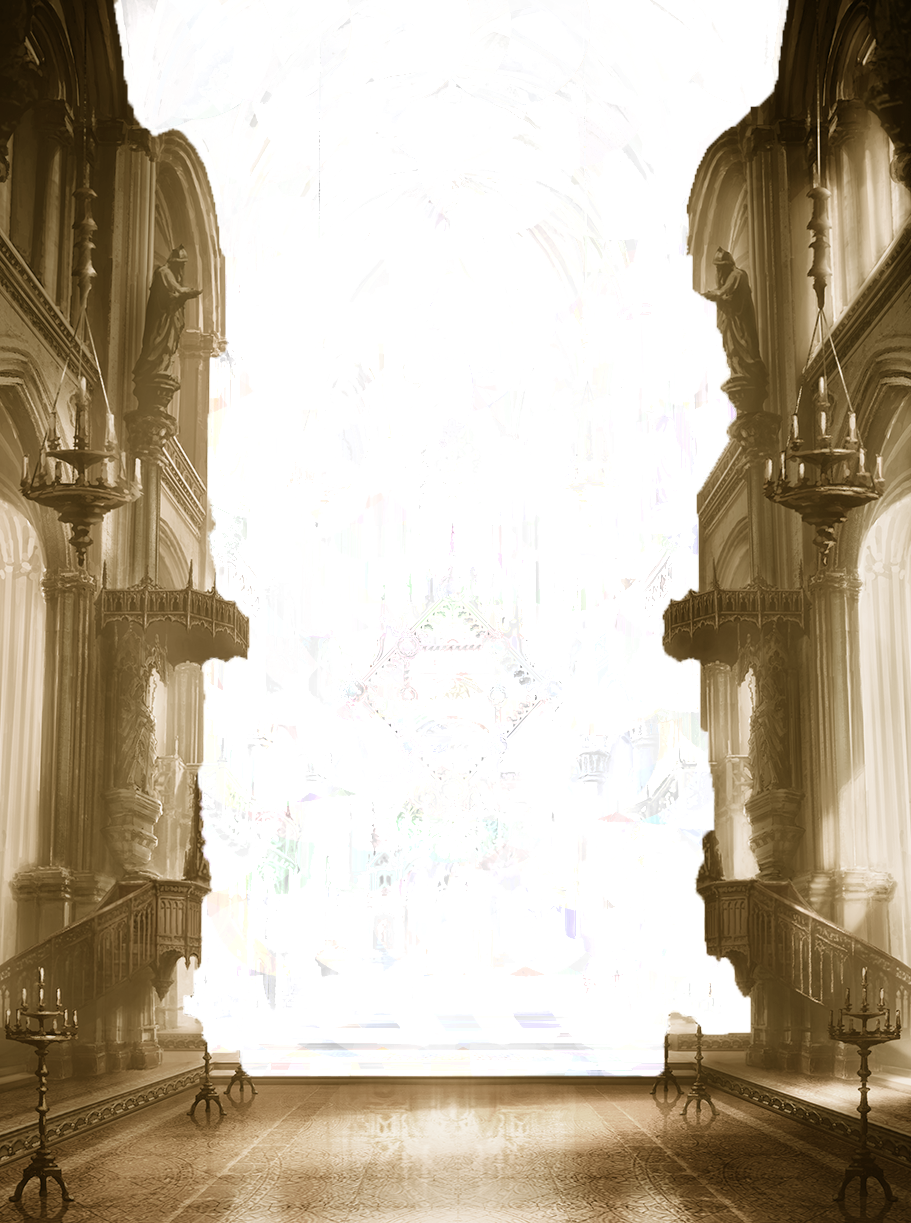
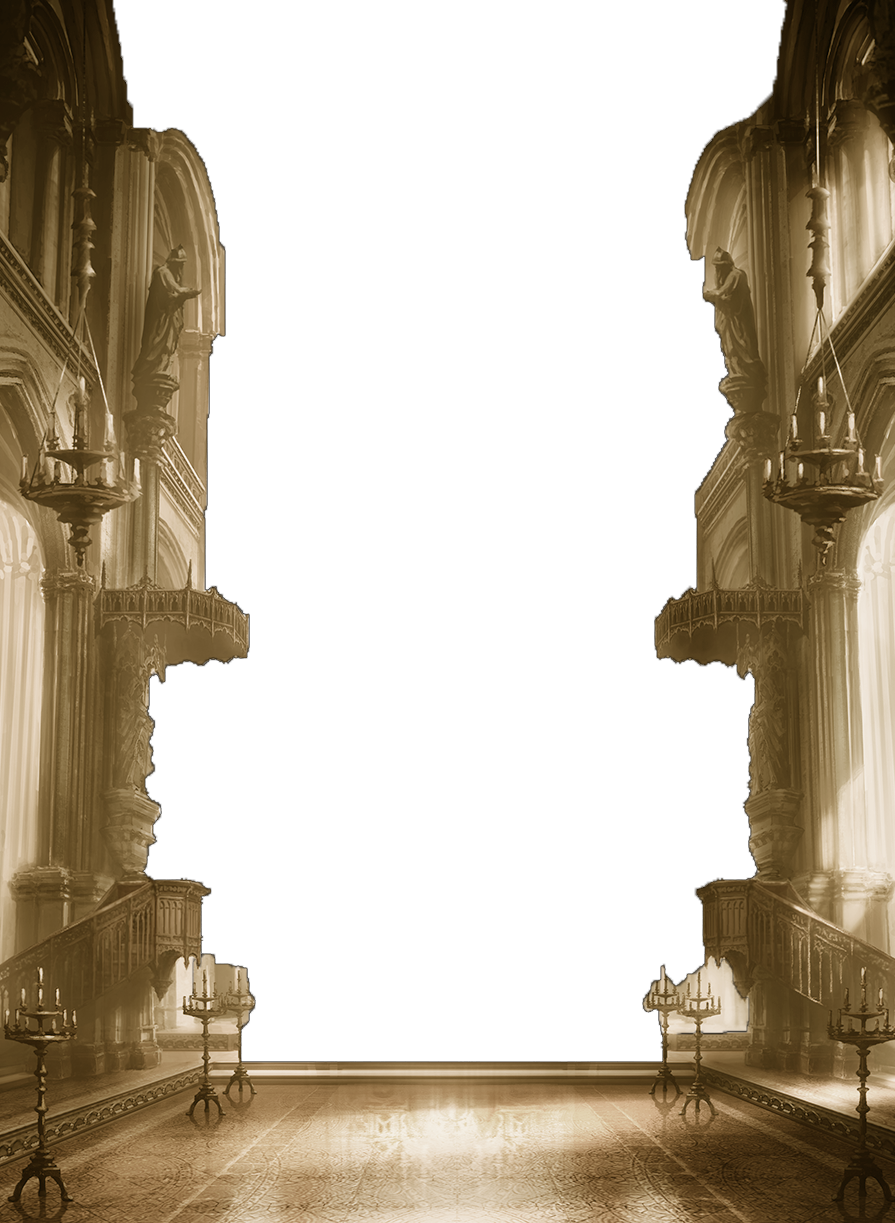
add transition

diff --git a/public/index.html b/public/index.html
@@ -14,30 +14,28 @@
 </head>
 
 <body class="overflow-y-hidden">
-    <div style="background-image: url('../public/images/silluette.jpg');"></div>
-    <section id="boarding" class="bg-[url('../images/interior-sephia-cropped-transparent.png')] bg-cover bg-center fixed inset-0 flex justify-center items-center pt-3 pb-32 bg-slate-100 z-10">
-        <div class="z-20 bg-[url('../images/interior-sephia-cropped-transparent.png')] bg-cover bg-center "></div>
-        <div class="flex items-center justify-center h-screen w-screen max-w-screen-lg">
-            <div class="container">
-                <div class="border rounded-lg shadow-lg p-10 md:px-9 text-center bg-white bg-opacity-50">
-                    <h2 class="text-sm font-semibold font-custom1 text-lime-900 mb-5 lg:text-lg ">WEDDING</h2>
-                    <h2 class="font-custom2 text-lime-900 mb-10 text-3xl md:text-5xl ">Tiger & Milly</h2>
-                    <div class="flex flex-wrap p-5 justify-center">
-                        <button id="show"
-                        class="text-white bg-gradient-to-r from-gold-300 to-moss-300 py-2 px-6 md:py-3 md:px-8 rounded-md transition duration-500 ease-in-out hover:-translate-y-3"><span class="text-xs md:text-sm">VIEW INVITATION</span></button>
+        <section id="boarding" class="bg-[url('../images/interior-sephia-cropped-v2.png'),url('../images/hogwarts.jpg')] bg-cover bg-center fixed inset-0 flex justify-center items-center pt-3 pb-32 bg-slate-100 z-10">
+            <div class="flex items-center justify-center h-screen w-screen max-w-screen-lg">
+                <div class="container">
+                    <div class="border rounded-lg shadow-lg p-10 md:px-9 text-center bg-white bg-opacity-50 enter_2">
+                        <h2 class="text-sm font-semibold font-custom1 text-lime-900 mb-5 lg:text-lg ">WEDDING</h2>
+                        <h2 class="font-custom2 text-lime-900 mb-10 text-3xl md:text-5xl ">Tiger & Milly</h2>
+                        <div class="flex flex-wrap p-5 justify-center">
+                            <button id="show"
+                            class="text-white bg-gradient-to-r from-gold-300 to-moss-300 py-2 px-6 md:py-3 md:px-8 rounded-md transition duration-500 ease-in-out hover:-translate-y-3"><span class="text-xs md:text-sm">VIEW INVITATION</span></button>
+                        </div>
+                        <!-- <iframe src="https://lottie.host/embed/946fe320-e4ab-47ad-9b24-0ccb129e2242/Cito4u3efM.json"></iframe> -->
                     </div>
-                    <!-- <iframe src="https://lottie.host/embed/946fe320-e4ab-47ad-9b24-0ccb129e2242/Cito4u3efM.json"></iframe> -->
                 </div>
-            </div>
-        </div>
-        
     </section>
+    </div>
+    
 
     <section id="title" class=" bg-slate-100">
         <div class="flex items-center justify-center h-screen">
             <div class="container">
                 <div class="w-full px-4">
-                    <div class="max-w-xl mx-auto my-auto text-center mb-16 text-lime-900">
+                    <div id="text-title" class="max-w-xl mx-auto my-auto text-center mb-16 text-lime-900 hidden">
                         <h2 class="font-custom1 font-semibold mb-5 ">PERNIKAHAN</h2>
                         <h2 class="font-custom2 text-4xl mb-5 lg:text-7xl">Tiger</h2>
                         <h2 class=" mb-5"><span class="font-saudagar text-3xl">&</span></h2>
@@ -94,9 +92,12 @@
     </section>
     <script>
         const body = document.querySelector('body')
-      document.getElementById('show').addEventListener('click',function(){
-        document.getElementById('boarding').classList.toggle('hidden')
-        body.classList.toggle('overflow-y-hidden')
+        const text_title = document.querySelector('#text-title')
+        document.getElementById('show').addEventListener('click',function(){
+            document.getElementById('boarding').classList.toggle('hidden')
+            text_title.classList.toggle('hidden')
+            text_title.classList.toggle('enter_5')
+            body.classList.toggle('overflow-y-hidden')
       })
     </script>
 </body>

diff --git a/public/css/style.css b/public/css/style.css
@@ -628,10 +628,6 @@ video {
   margin-bottom: 4rem;
 }
 
-.mb-4 {
-  margin-bottom: 1rem;
-}
-
 .mb-5 {
   margin-bottom: 1.25rem;
 }
@@ -704,10 +700,6 @@ video {
   overflow-y: hidden;
 }
 
-.rounded {
-  border-radius: 0.25rem;
-}
-
 .rounded-3xl {
   border-radius: 1.5rem;
 }
@@ -728,11 +720,6 @@ video {
   border-width: 1px;
 }
 
-.bg-blue-500 {
-  --tw-bg-opacity: 1;
-  background-color: rgb(59 130 246 / var(--tw-bg-opacity));
-}
-
 .bg-slate-100 {
   --tw-bg-opacity: 1;
   background-color: rgb(241 245 249 / var(--tw-bg-opacity));
@@ -748,34 +735,16 @@ video {
   background-color: rgb(255 255 255 / var(--tw-bg-opacity));
 }
 
-.bg-yellow-600 {
-  --tw-bg-opacity: 1;
-  background-color: rgb(202 138 4 / var(--tw-bg-opacity));
-}
-
-.bg-yellow-700 {
-  --tw-bg-opacity: 1;
-  background-color: rgb(161 98 7 / var(--tw-bg-opacity));
-}
-
 .bg-opacity-50 {
   --tw-bg-opacity: 0.5;
 }
 
-.bg-\[url\(\'\.\/images\/interior-sephia-cropped-transparent\.png\'\)\] {
-  background-image: url('./images/interior-sephia-cropped-transparent.png');
+.bg-\[url\(\'\.\.\/images\/interior-sephia-cropped-v2\.png\'\)\2c url\(\'\.\.\/images\/hogwarts\.jpg\'\)\] {
+  background-image: url('../images/interior-sephia-cropped-v2.png'),url('../images/hogwarts.jpg');
 }
 
 .bg-gradient-to-r {
   background-image: linear-gradient(to right, var(--tw-gradient-stops));
-}
-
-.bg-\[url\(\'\.\.\/images\/interior-sephia-cropped-transparent\.png\'\)\] {
-  background-image: url('../images/interior-sephia-cropped-transparent.png');
-}
-
-.bg-\[url\(\'\.\.\/images\/silluette\.jpg\'\)\] {
-  background-image: url('../images/silluette.jpg');
 }
 
 .from-gold-300 {
@@ -841,11 +810,6 @@ video {
   padding-bottom: 0.5rem;
 }
 
-.py-8 {
-  padding-top: 2rem;
-  padding-bottom: 2rem;
-}
-
 .pb-16 {
   padding-bottom: 4rem;
 }
@@ -874,10 +838,6 @@ video {
   font-family: custom2, sans-serif;
 }
 
-.font-sans {
-  font-family: ui-sans-serif, system-ui, sans-serif, "Apple Color Emoji", "Segoe UI Emoji", "Segoe UI Symbol", "Noto Color Emoji";
-}
-
 .font-saudagar {
   font-family: Saudagar, sans-serif;
 }
@@ -900,11 +860,6 @@ video {
 .text-sm {
   font-size: 0.875rem;
   line-height: 1.25rem;
-}
-
-.text-xl {
-  font-size: 1.25rem;
-  line-height: 1.75rem;
 }
 
 .text-xs {
@@ -938,10 +893,6 @@ video {
 .text-white {
   --tw-text-opacity: 1;
   color: rgb(255 255 255 / var(--tw-text-opacity));
-}
-
-.opacity-60 {
-  opacity: 0.6;
 }
 
 .shadow-lg {
@@ -996,14 +947,27 @@ video {
   src: local('Aerotis'), url(../fonts/Aerotis.woff2) format('woff2');
 }
 
+@keyframes alt-pop-enter {
+  0% {
+    opacity: 0;
+  }
+
+  100% {
+    opacity: 1;
+  }
+}
+
+.enter_2 {
+  animation: alt-pop-enter 2s;
+}
+
+.enter_5 {
+  animation: alt-pop-enter 5s;
+}
+
 .hover\:-translate-y-3:hover {
   --tw-translate-y: -0.75rem;
   transform: translate(var(--tw-translate-x), var(--tw-translate-y)) rotate(var(--tw-rotate)) skewX(var(--tw-skew-x)) skewY(var(--tw-skew-y)) scaleX(var(--tw-scale-x)) scaleY(var(--tw-scale-y));
-}
-
-.hover\:bg-blue-700:hover {
-  --tw-bg-opacity: 1;
-  background-color: rgb(29 78 216 / var(--tw-bg-opacity));
 }
 
 .hover\:text-white:hover {

diff --git a/tailwind.config.js b/tailwind.config.js
@@ -7,6 +7,17 @@ module.exports = {
       padding: '50px'
     },
     extend: {
+      keyframes: {
+        fadein: {
+          '0%': { opacity: 0 },
+          '100%': { opacity: 1 }
+        }
+      },
+      animation: {
+        'fadein_1s': 'fadein 1s',
+        'fadein_2s': 'fadein 2s',
+        'fadein_3s': 'fadein 3s',
+      },
       fontFamily: {
         'custom1': ['custom1', 'sans-serif'],
         'custom2': ['custom2', 'sans-serif'],

diff --git a/src/css/input.css b/src/css/input.css
@@ -26,3 +26,20 @@
     font-family: 'Aerotis';
     src: local('Aerotis'), url(../fonts/Aerotis.woff2) format('woff2');
   }
+
+  @keyframes alt-pop-enter {
+    0% {
+      opacity: 0;
+    }
+    100% {
+      opacity: 1;
+    }
+  }
+  
+  .enter_2 {
+    animation: alt-pop-enter 2s;
+  }
+
+  .enter_5 {
+    animation: alt-pop-enter 5s;
+  }
